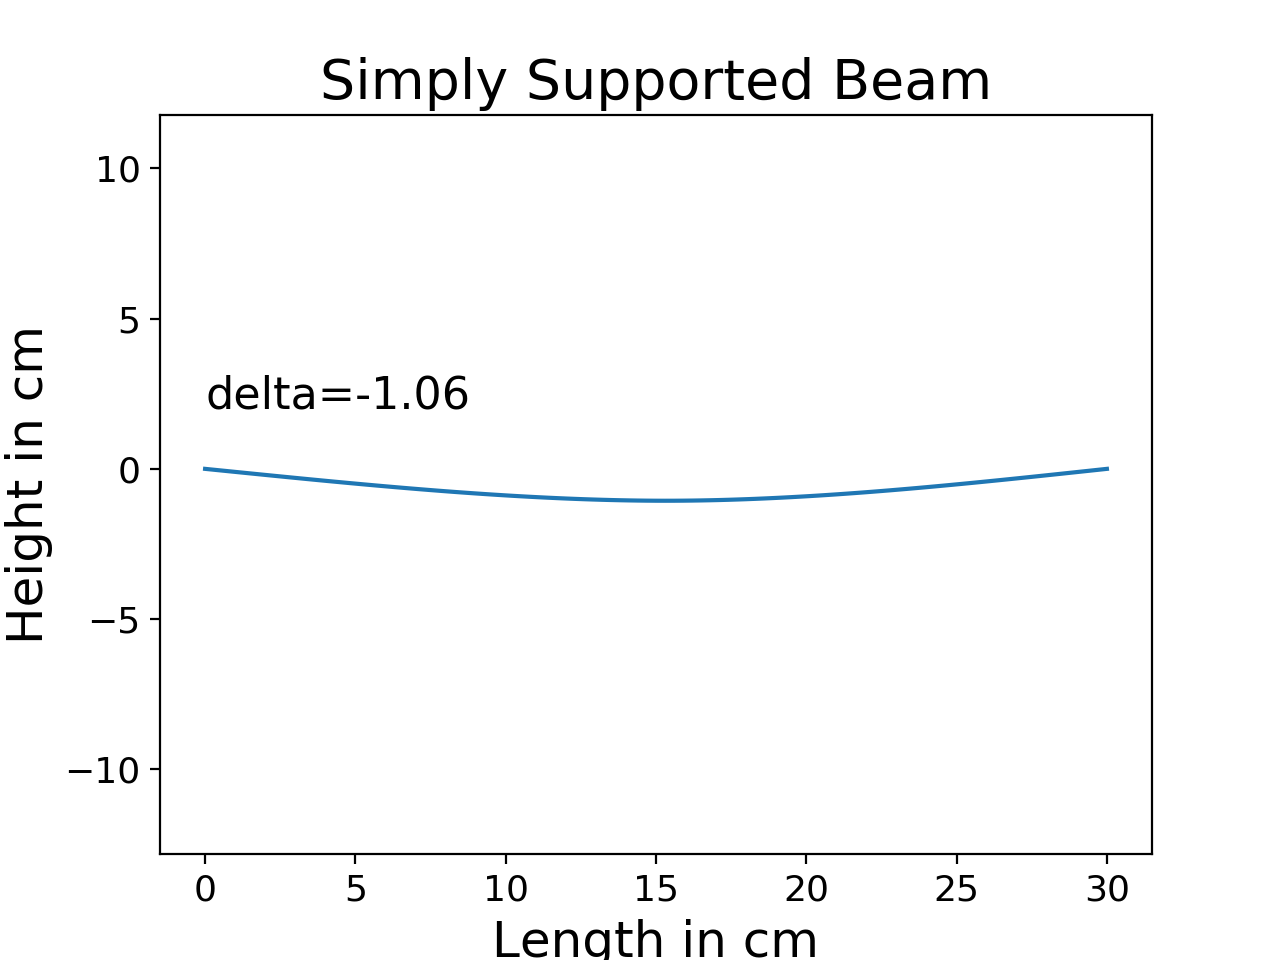
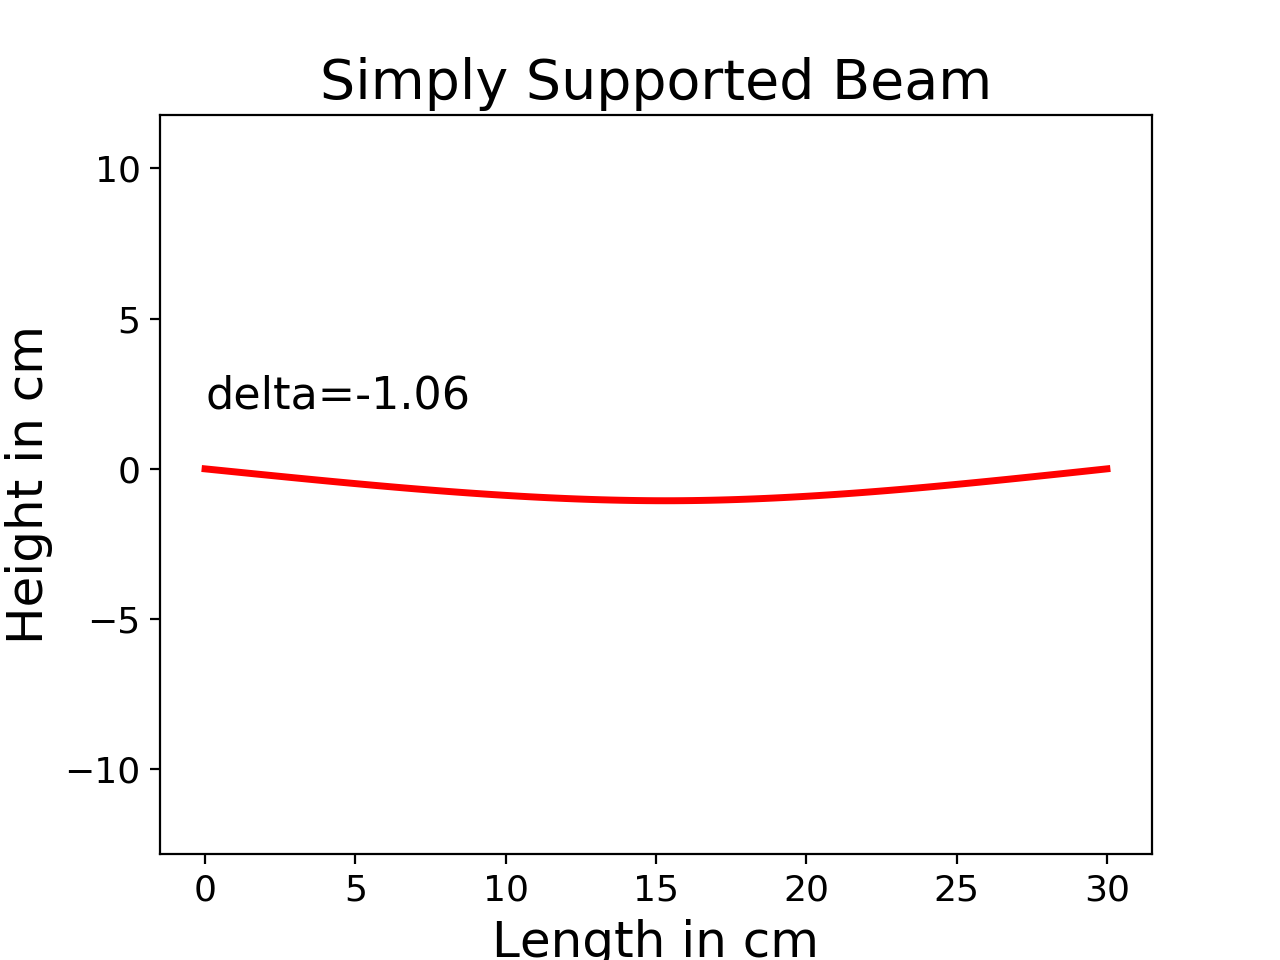
change line color and line size

Changed region(s): [[0.25, 0.5, 0.7812, 0.5312], [0.7812, 0.4688, 0.875, 0.5], [0.1562, 0.4688, 0.25, 0.5]]

diff --git a/Beam.py b/Beam.py
@@ -164,7 +164,7 @@ def Simply_Supported_Beam(delta):
 
 def plot_simply_supported_beam(x,y):
     matplotlib.pyplot.axis([0, length, -20, 5])
-    matplotlib.pyplot.plot(x,y)
+    matplotlib.pyplot.plot(x,y, 'r', linewidth=2.5)
     matplotlib.pyplot.xlabel('Length in cm',fontsize=18)
     matplotlib.pyplot.ylabel('Height in cm',fontsize=18)
     matplotlib.pyplot.title('Simply Supported Beam',fontsize=20)
@@ -176,7 +176,7 @@ def plot_simply_supported_beam(x,y):
 
 def plot_fixed_end_beam(x,y):
     matplotlib.pyplot.axis([0, length, -20, 5])
-    matplotlib.pyplot.plot(x,y)
+    matplotlib.pyplot.plot(x,y, 'r', linewidth=2.5)
     matplotlib.pyplot.xlabel('Length in cm',fontsize=17)
     matplotlib.pyplot.ylabel('Height in cm',fontsize=17)
     matplotlib.pyplot.title('Fixed End Beam', fontsize=20)
@@ -188,7 +188,7 @@ def plot_fixed_end_beam(x,y):
 
 def plot_cantilever_beam(x, y):
     matplotlib.pyplot.axis([0, length, -20, 5])
-    matplotlib.pyplot.plot(x, y)
+    matplotlib.pyplot.plot(x, y, 'r', linewidth=2.5)
     matplotlib.pyplot.xlabel('Length in cm',fontsize=18)
     matplotlib.pyplot.ylabel('Height in cm',fontsize=18)
     matplotlib.pyplot.title('Cantilever Beam',fontsize=20)
